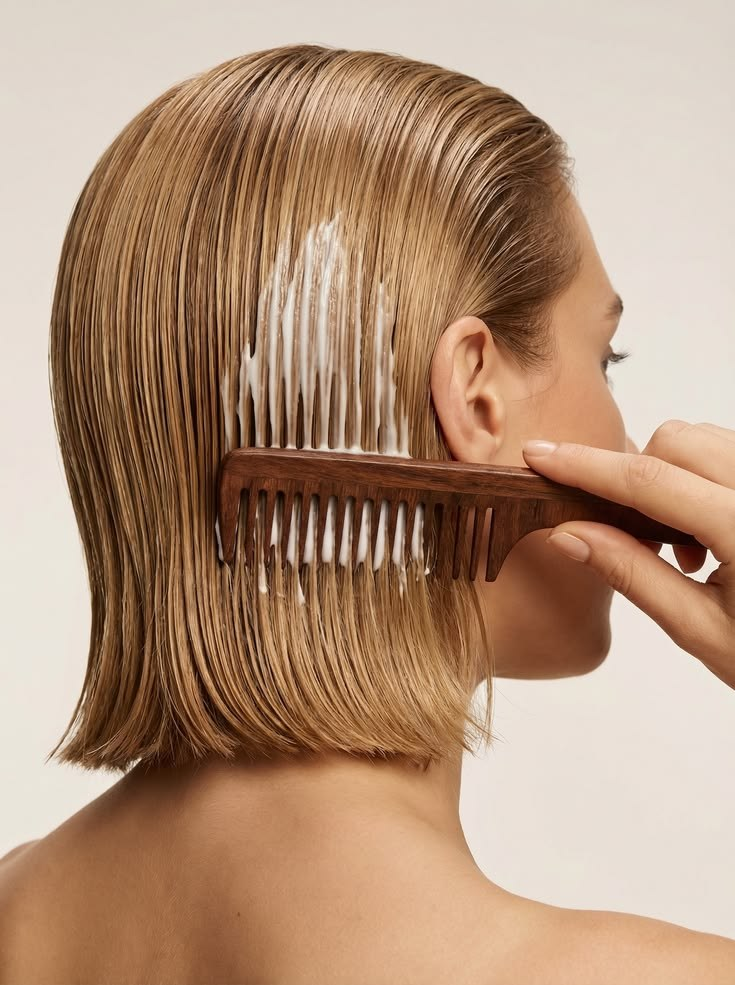
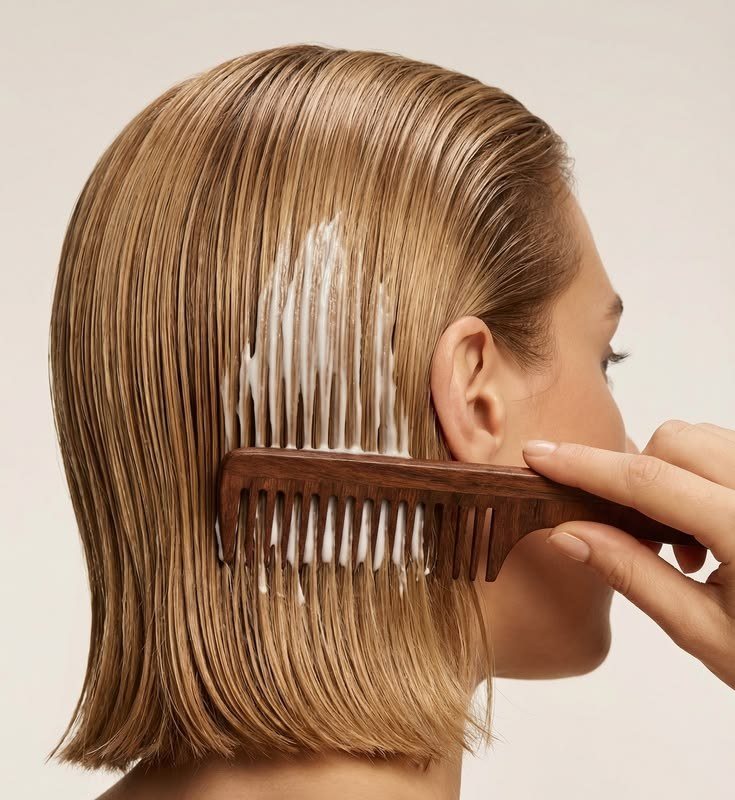
Crop the lifestyle shot to the hair
The bare shoulder and upper back are cut so the frame holds the hair and
comb, as in the design.

diff --git a/src/app/page.tsx b/src/app/page.tsx
@@ -102,7 +102,7 @@ export default function Home() {
           src="/images/comb.jpg"
           alt="Product being combed through damp hair"
           width={735}
-          height={985}
+          height={800}
           className="aspect-[4/3] w-full object-cover md:aspect-auto md:h-full md:min-h-[620px]"
         />
       </section>
